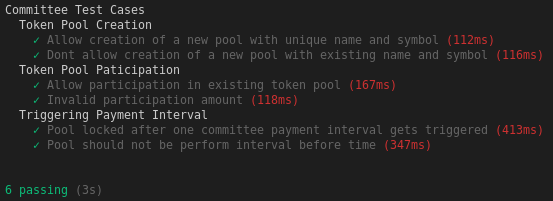
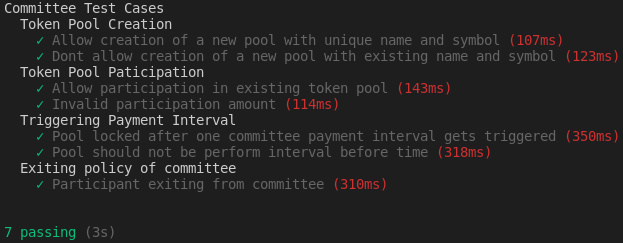
Projects

Changed region(s): [[0.0, 0.0, 1.0, 0.7761], [0.0, 0.9254, 0.1844, 0.9851]]

diff --git a/Blockchain/HardHat/Committee System/test/committeeTest.js b/Blockchain/HardHat/Committee System/test/committeeTest.js
@@ -141,4 +141,28 @@ describe('Committee Test Cases', () => {
             await expect(await instance.checkPoolStatus("Bassam", "BAZ")).to.emit(instance, 'isLock').withArgs(false);
         })
     })
+
+    describe('Exiting policy of committee', () => {
+
+        it('Participant exiting from committee', async () => {
+
+            // Calling contract function to create new pool
+            await instance.createPool("Bassam", "BAZ", 10);
+
+            // Getting the pool tokens from ethers
+            await instance.exchangePoolTokens("Bassam", "BAZ", { value: ethers.utils.parseEther("10") });
+            await instance.connect(ALICE).exchangePoolTokens("Bassam", "BAZ", { value: ethers.utils.parseEther("10") });
+            await instance.connect(JON).exchangePoolTokens("Bassam", "BAZ", { value: ethers.utils.parseEther("10") });
+
+            // Paticipation in pool
+            await instance.participateInPool("Bassam", "BAZ");
+            await instance.connect(ALICE).participateInPool("Bassam", "BAZ");
+            await instance.connect(JON).participateInPool("Bassam", "BAZ");
+
+            // Triggering Payment Interval
+            await instance.exitCommittee("Bassam", "BAZ");
+
+            await expect(await instance.checkParticipantStatus("Bassam", "BAZ")).to.emit(instance, 'isParticipating').withArgs(false);
+        })
+    })
 })

diff --git a/Blockchain/HardHat/Committee System/hardhat.config.js b/Blockchain/HardHat/Committee System/hardhat.config.js
@@ -4,10 +4,18 @@
 require("@nomiclabs/hardhat-waffle");
 require('dotenv').config();
 
-const {INFURA_API_KEY, RINKEBY_PRIVATE_KEY} = process.env;
+const { INFURA_API_KEY, RINKEBY_PRIVATE_KEY } = process.env;
 
 module.exports = {
-  solidity: "0.8.0",
+  solidity: {
+    version: "0.8.0",
+    settings: {
+      optimizer: {
+        enabled: true,
+        runs: 200
+      }
+    }
+  },
   networks: {
     rinkeby: {
       url: `https://rinkeby.infura.io/v3/${INFURA_API_KEY}`,

diff --git a/Blockchain/HardHat/Committee System/README.md b/Blockchain/HardHat/Committee System/README.md
@@ -1,7 +1,7 @@
 # Committee Crypto Saving System
 
 _Deployed On Testnet (Rinkeby)_
-**Token address**: ```0x927cB8E11436E2037c6001568885D0e890bFA6a1```
+**Token address**: ```0x6D0F42F5d9b9825420a35c7149275134145C7DEE```
 
 ## Functionalities
 
